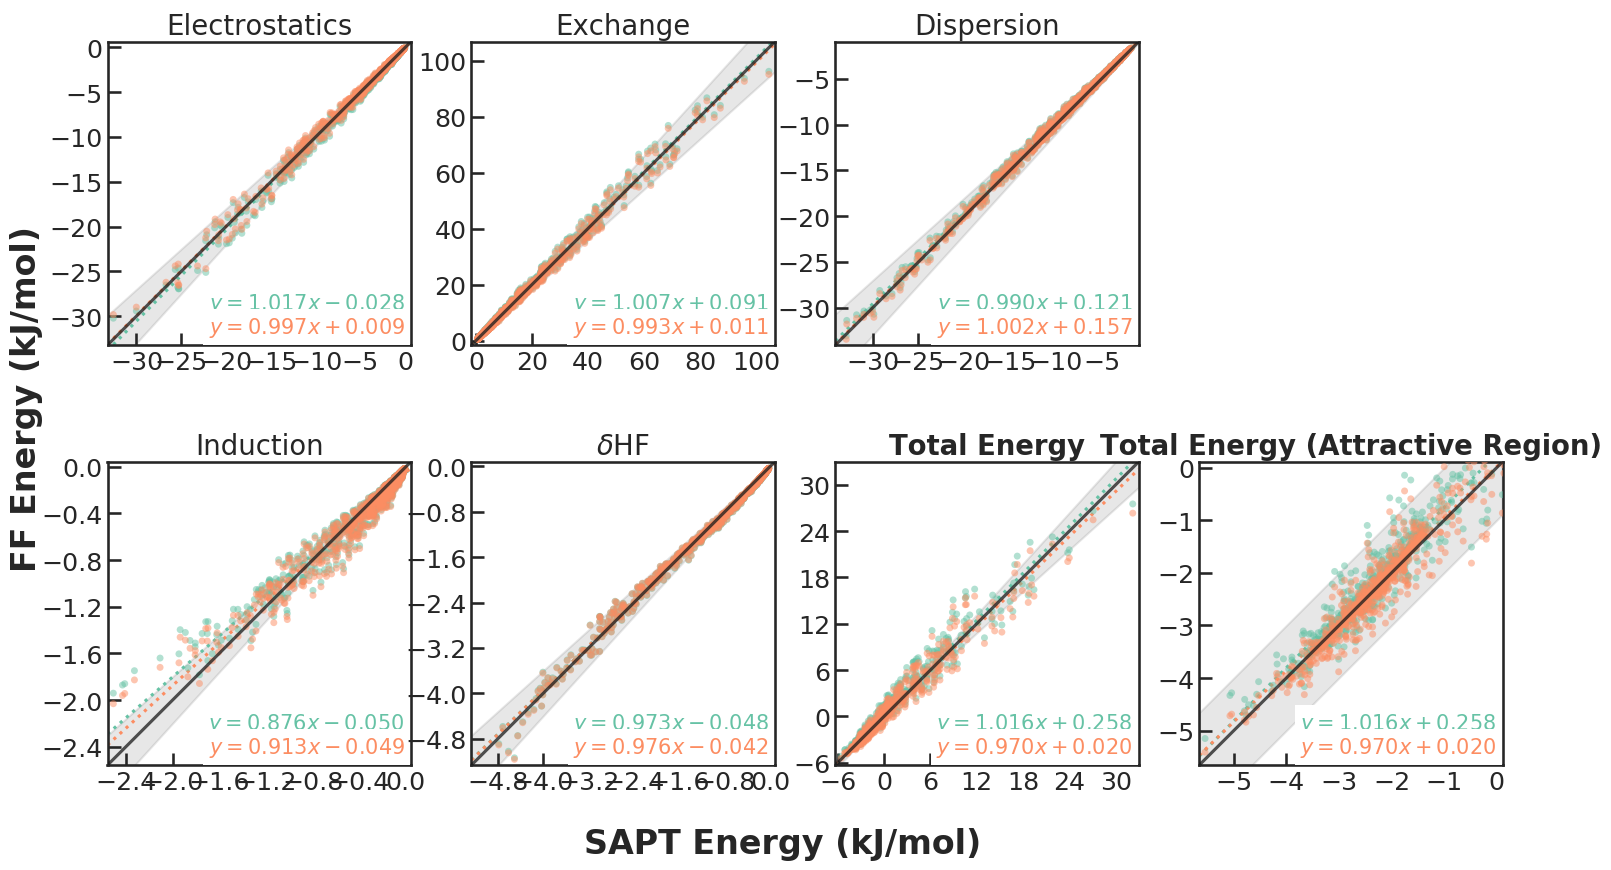
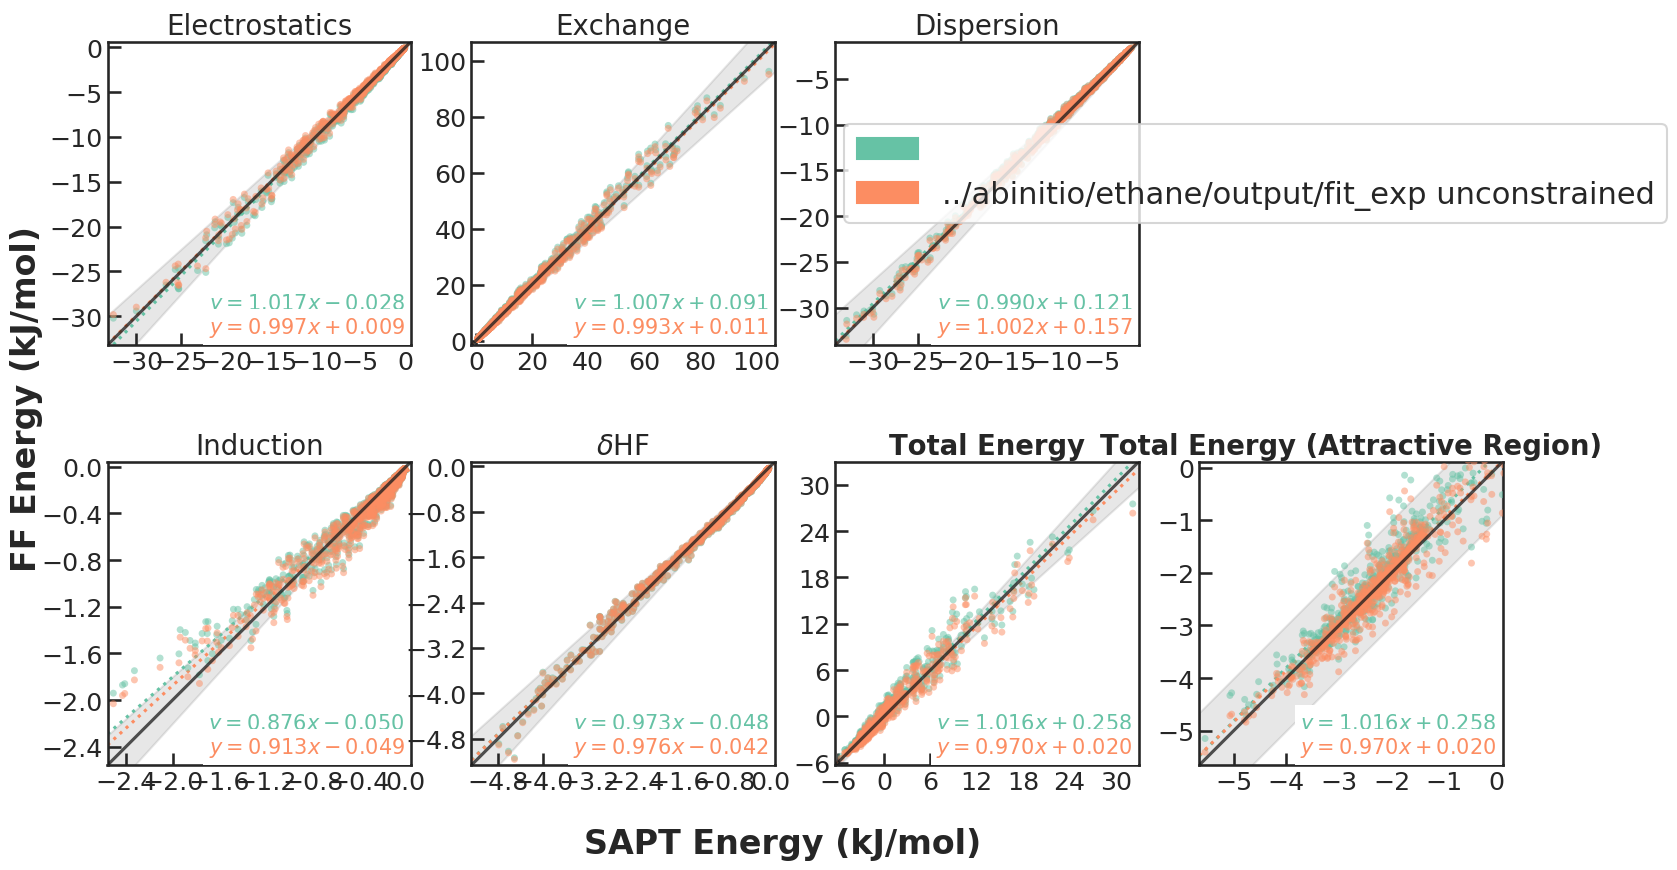
Implemented ability to change output file name

diff --git a/parameterGeneralizer.py b/parameterGeneralizer.py
@@ -1377,7 +1377,7 @@ def optimzeGeneralParameters():
 	#write output JSON file with optimized parameters
 	optimized_params["Dispersion"] = [1.0 for atomtype in allAtomtypes]
 	final_params_list = write_output_params_to_list(optimized_params)
-	map_params(final_params_list, "optimized_params")
+	map_params(final_params_list, generalizer_settings.output_name.replace(".constraints", ""))
 
 	#calc dispersion energy and total energy
 	for dim in list(dimers.keys()):
@@ -1422,7 +1422,7 @@ def optimzeGeneralParameters():
 			f.write(str(component_lsq_error[component]) + '\n')
 
 	print("===========================================================================")
-	print(" Optimized parameters successfully written to optimized_params.constraints ")
+	print(" Optimized parameters successfully written to " + generalizer_settings.output_name)
 	print("===========================================================================")
 
 	return res

diff --git a/data_files/fit_ethane_propane_dim_fits/ethane_ethane/plot_compare_sapt_components.py b/data_files/fit_ethane_propane_dim_fits/ethane_ethane/plot_compare_sapt_components.py
@@ -195,10 +195,11 @@ for i, (component_prefix,component_suffix) in enumerate(zip(component_prefixes,c
             label_text = component_prefix.rstrip('_') + ' ' +\
                     component_suffix.lstrip('_').replace('.dat','')
             labels.append(patches.Patch(color=color, label=label_text))
-            #ax.legend(handles=labels, 
-            #    fontsize=22,
-            #    bbox_to_anchor=(0.93,0.79),
-            #    bbox_transform=ax.figure.transFigure)
+            print(labels)
+            ax.legend(handles=labels, 
+                fontsize=22,
+                bbox_to_anchor=(1.0,0.79),
+                bbox_transform=ax.figure.transFigure)
 
             m_values.append('')
             b_values.append('')
